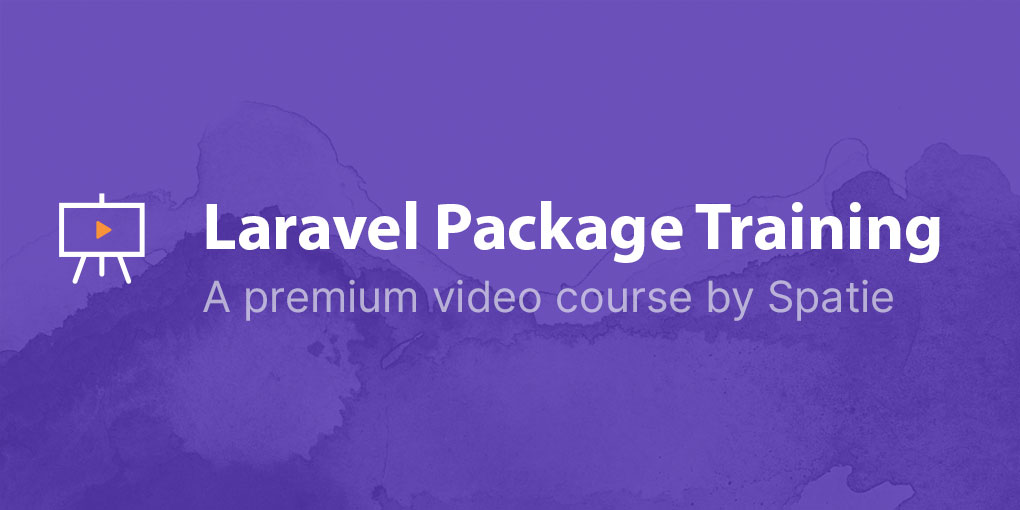
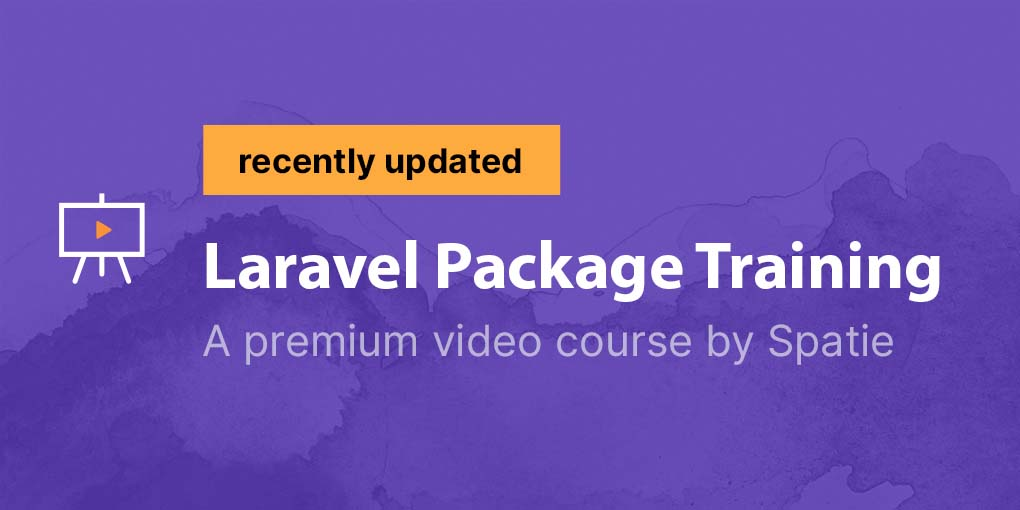
social card

Changed region(s): [[0.1824, 0.2353, 0.9422, 0.7059], [0.0912, 0.4412, 0.1216, 0.4706]]

diff --git a/resources/views/front/home/partials/intro.blade.php b/resources/views/front/home/partials/intro.blade.php
@@ -1,5 +1,10 @@
 <div class="py-16 grid lg:cols-2 gap-16 items-center">
     <div class="mx-auto max-w-3xl">
+
+        <p class="inline-block py-2 px-4 bg-orange-400 font-bold uppercase mb-4">
+            recently updated
+        </p>
+
         <header class="text-white">
             <p class="font-bold font-serif text-3xl sm:text-5xl leading-tight">Learn how to create <br>a Laravel package</p>
             <h1 class="mt-2 markup-baseline text-orange-400 opacity-100 text-2xl">Become the next package maestro</h1>
